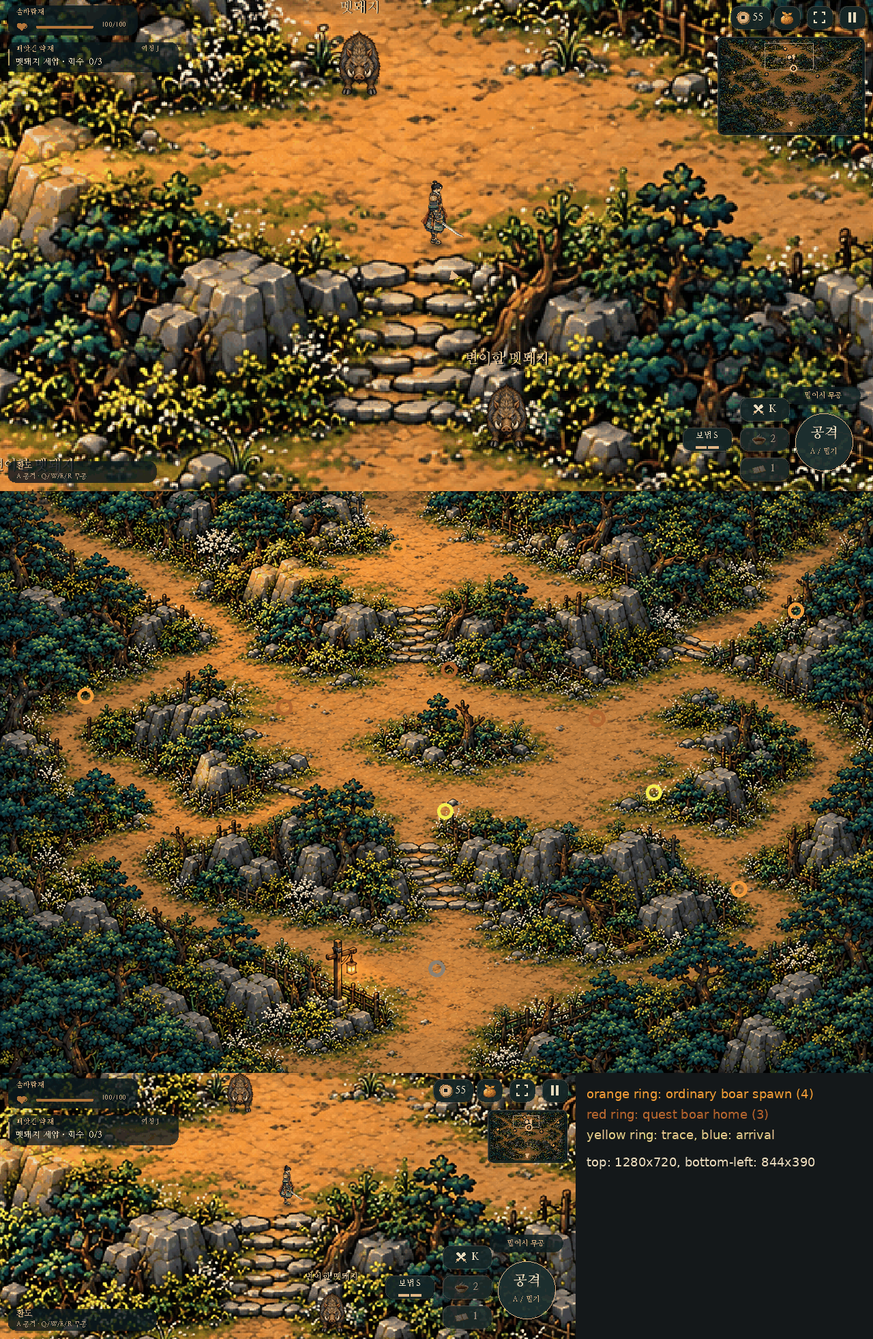
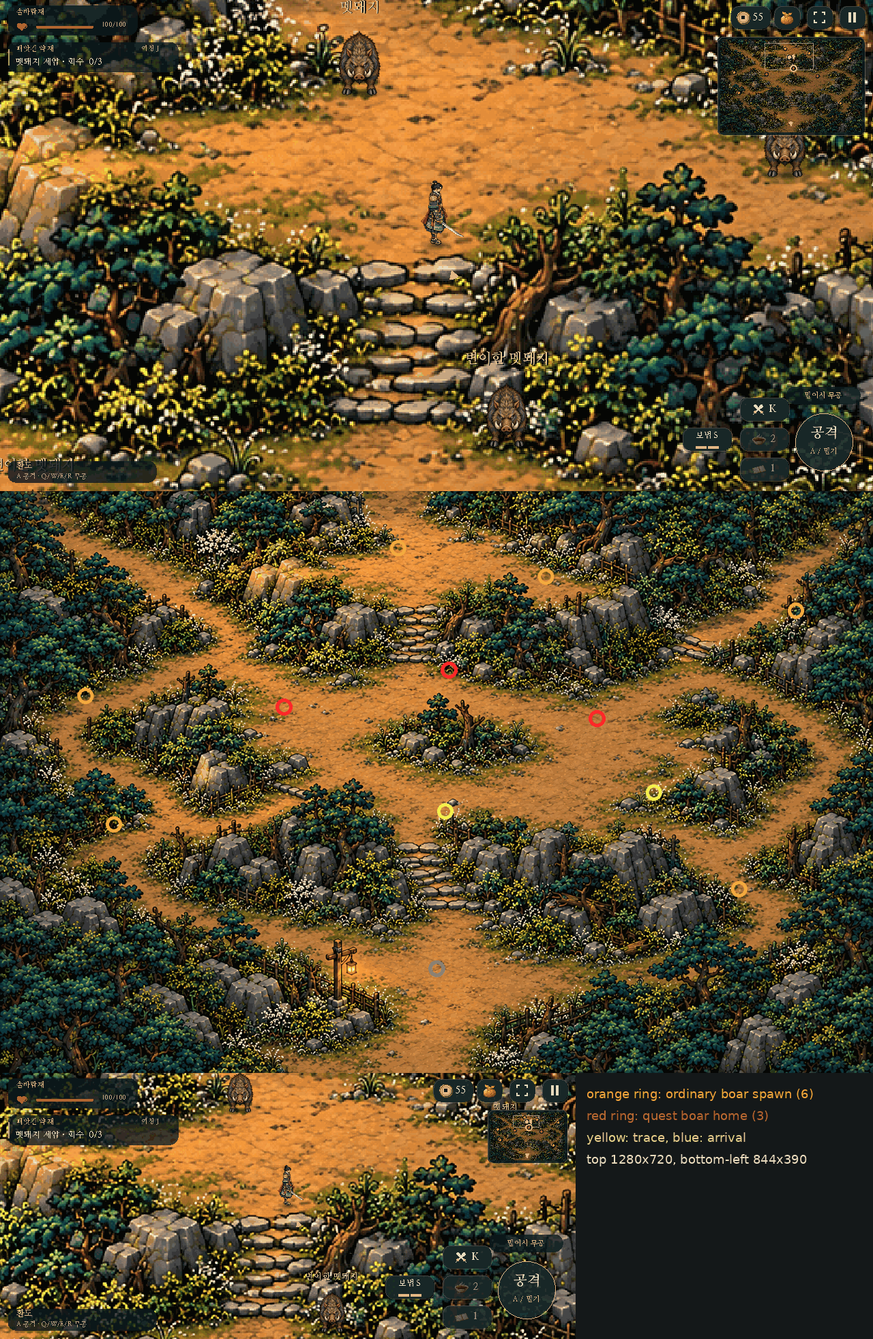
feat: refill ordinary boars to six after 30 seconds on the pass
At the user's request the pass now holds up to six ordinary boars. Each
fallen one returns at its spawn after 30 seconds of play on the pass
(menus, training, other maps and loading do not run the clock), and only
once the hero is 420 away from that spawn. Walking in from the village
still refills the whole round at once.

Two more spawns on painted dirt paths, checked like the first four. Save
v3 (not yet released) now also keeps each boar's remaining respawn time:
276 bytes.

Tests: repeat_hunting 1138 checks; CTest 19/19, ASan+UBSan 19/19.

Claude-Session: https://claude.ai/code/session_01WY6sJ2Yid5rfWZjZWV17HR

Changed region(s): [[0.6562, 0.8079, 0.9375, 0.8701], [0.875, 0.0932, 0.9375, 0.1554], [0.125, 0.5904, 0.1562, 0.6215]]

diff --git a/tests/test_hunt.c b/tests/test_hunt.c
@@ -161,7 +161,7 @@ static void rounds(void) {
     g.hero.pos = g.drops[0].pos; CHECK(game_collect(&g, 0));
     g.hunt[2].pos.x += 30; /* Wandered off. */
     int coins = g.coins; unsigned round = g.hunt_round;
-    /* Same visit: no respawn while staying, pausing or opening menus. */
+    /* Same visit: pausing, menus and a short stay bring nobody back early. */
     const Phase menus[] = {PH_PAUSED, PH_BAG, PH_JOURNAL, PH_TECHNIQUES, PH_DIALOGUE};
     for (unsigned m = 0; m < sizeof menus / sizeof *menus; m++) {
         g.phase = menus[m];
@@ -229,6 +229,80 @@ static void saving(void) {
     for (int i = 0; i < 4; i++) bytes[size - 4 + i] = (unsigned char)(h >> (8 * i));
     Game sentinel = g, out = g;
     CHECK(save_decode(&out, bytes, size) == SAVE_CORRUPT && !memcmp(&out, &sentinel, sizeof out));
+}
+
+static void wait_play(Game *g, float seconds) {
+    for (int n = (int)lroundf(seconds / .05f); n > 0; n--) {
+        g->hero.hp = 100; g->hero.invul = 1;
+        simulation_tick(g, .05f, (Vec2){0});
+    }
+}
+/* While the hero stays on the pass, each fallen ordinary boar returns after
+ * HUNT_RESPAWN_SECONDS of play, never beside the hero, up to HUNT_COUNT. */
+static void timed_respawn(void) {
+    Game g; ready(&g);
+    Vec2 safe = MAP_EXITS[0].arrival;
+    for (int i = 0; i < HUNT_COUNT; i++) CHECK(distance(safe, HUNT_SPAWNS[i]) >= HUNT_RESPAWN_CLEAR);
+    g.hero.pos = g.hunt[0].pos; CHECK(game_damage(&g, &g.hunt[0], 99, FX_HIT));
+    CHECK(g.hunt_respawn[0] == HUNT_RESPAWN_SECONDS);
+    g.hero.pos = safe; int coins = g.coins; unsigned round = g.hunt_round;
+    wait_play(&g, HUNT_RESPAWN_SECONDS - 1);
+    CHECK(g.hunt[0].hp == 0 && g.hunt_respawn[0] > .5f && g.hunt_respawn[0] < 1.5f);
+    /* Menus, training and loading neither run nor reset the clock. */
+    float left = g.hunt_respawn[0];
+    const Phase menus[] = {PH_PAUSED, PH_BAG, PH_JOURNAL, PH_TECHNIQUES, PH_DIALOGUE, PH_SHOP};
+    for (unsigned m = 0; m < sizeof menus / sizeof *menus; m++) {
+        g.phase = menus[m];
+        for (int i = 0; i < 200; i++) game_tick(&g, .05f, (Vec2){0});
+        g.phase = PH_PLAY;
+    }
+    CHECK(g.hunt_respawn[0] == left && g.hunt[0].hp == 0);
+    Game saved; CHECK(game_enter_training(&g, &saved));
+    for (int i = 0; i < 200; i++) simulation_tick(&g, .05f, (Vec2){0});
+    CHECK(game_leave_training(&g, &saved) && g.hunt_respawn[0] == left);
+    g = roundtrip(&g);
+    CHECK(g.hunt[0].hp == 0 && g.hunt_respawn[0] == left && g.hunt_round == round);
+    g.hero.pos = safe;
+    wait_play(&g, 2);
+    CHECK(g.hunt[0].hp == BOAR_HP && g.hunt[0].state == AI_IDLE && g.hunt_respawn[0] == 0);
+    CHECK(distance(g.hunt[0].pos, HUNT_SPAWNS[0]) == 0 && g.coins == coins && g.hunt_round == round);
+    /* Due while the hero stands at its spawn: it waits until they leave. */
+    g.hero.pos = g.hunt[1].pos; CHECK(game_damage(&g, &g.hunt[1], 99, FX_HIT));
+    wait_play(&g, HUNT_RESPAWN_SECONDS + 5);
+    CHECK(g.hunt[1].hp == 0 && g.hunt_respawn[1] == 0);
+    g.hero.pos = safe; wait_play(&g, .05f);
+    CHECK(g.hunt[1].hp == BOAR_HP);
+    /* Hunt the whole pass three times over in one visit: always back to six,
+     * nine coins per kill, no herb or quest change. */
+    for (int cycle = 0; cycle < 3; cycle++) {
+        for (int i = 0; i < HUNT_COUNT; i++) {
+            g.hero.pos = g.hunt[i].pos; CHECK(game_damage(&g, &g.hunt[i], 99, FX_HIT));
+        }
+        CHECK(alive(&g) == 0);
+        g.hero.pos = safe; wait_play(&g, HUNT_RESPAWN_SECONDS / 2);
+        CHECK(alive(&g) == 0);
+        wait_play(&g, HUNT_RESPAWN_SECONDS / 2 + 1);
+        CHECK(alive(&g) == HUNT_COUNT);
+    }
+    CHECK(g.coins == coins + (3 * HUNT_COUNT + 1) * HUNT_REWARD && g.herbs == 0 && g.quest == Q_RECOVER);
+    CHECK(g.hunt_round == round);
+    for (int i = 0; i < BOAR_COUNT; i++) CHECK(!g.drops[i].exists);
+    /* Out of the pass the clock stops; walking back in refills everything. */
+    g.hero.pos = g.hunt[2].pos; CHECK(game_damage(&g, &g.hunt[2], 99, FX_HIT));
+    to_village(&g); left = g.hunt_respawn[2];
+    wait_play(&g, HUNT_RESPAWN_SECONDS * 2);
+    CHECK(g.hunt[2].hp == 0 && g.hunt_respawn[2] == left);
+    to_pass(&g); CHECK(alive(&g) == HUNT_COUNT && g.hunt_respawn[2] == 0);
+    /* Before the traces nothing counts down. */
+    game_reset(&g); game_start(&g); to_pass(&g);
+    g.hunt[3].hp = 0; g.hunt[3].state = AI_DEAD; g.hunt_respawn[3] = 5;
+    wait_play(&g, 10); CHECK(g.hunt[3].hp == 0 && g.hunt_respawn[3] == 5);
+    /* Saves reject an impossible clock. */
+    ready(&g);
+    Game bad = g; bad.hunt_respawn[0] = 1; CHECK(save_encode(&bad, bytes, &size) == SAVE_INVALID);
+    bad = g; bad.hunt[0].hp = 0; bad.hunt_respawn[0] = HUNT_RESPAWN_SECONDS + 1;
+    CHECK(save_encode(&bad, bytes, &size) == SAVE_INVALID);
+    bad.hunt_respawn[0] = NAN; CHECK(save_encode(&bad, bytes, &size) == SAVE_INVALID);
 }
 
 /* A v2 file (before repeat hunting) keeps its progress and starts round 1. */
@@ -323,7 +397,7 @@ static void chapter(void) {
 
 int main(void) {
     spawns(); where_they_appear(); rewards_apart_from_quest(); real_combat();
-    shared_attack_slots(); rounds(); saving(); v2_migration(); death(); chapter();
+    shared_attack_slots(); rounds(); timed_respawn(); saving(); v2_migration(); death(); chapter();
     printf("PASS: %d repeat hunting checks.\n", checks);
     return 0;
 }

diff --git a/src/game.c b/src/game.c
@@ -9,7 +9,7 @@ const Vec2 HOME = P(.30f, .51f), BOSS_HOME = P(.81f, .46f);
 const Vec2 CAVE_HOME = {768 * 1.5f, 440 * 1.5f};
 /* Open dirt paths on the pass, far from the arrival point, the return exit,
  * the quest boars and both traces; tests check clearance and reachability. */
-const Vec2 HUNT_SPAWNS[HUNT_COUNT] = {{225, 540}, {1050, 150}, {2100, 315}, {1950, 1050}};
+const Vec2 HUNT_SPAWNS[HUNT_COUNT] = {{225, 540}, {1050, 150}, {2100, 315}, {1950, 1050}, {300, 880}, {1440, 225}};
 const Npc NPCS[NPC_COUNT] = {{P(.29f, .43f), "마을 이장", "이야기"},
                              {P(.21f, .285f), "대장장이", "대장간"},
                              {P(.355f, .29f), "약방 주인", "약방"},
@@ -96,8 +96,10 @@ static Enemy make_enemy(Vec2 p, int hp) {
 }
 /* Every ordinary boar back at its spawn with full health. */
 static void new_hunt_round(Game *g) {
-    for (int i = 0; i < HUNT_COUNT; i++)
+    for (int i = 0; i < HUNT_COUNT; i++) {
         g->hunt[i] = make_enemy(HUNT_SPAWNS[i], BOAR_HP);
+        g->hunt_respawn[i] = 0;
+    }
     g->hunt_round++;
 }
 static bool is_hunt(const Game *g, const Enemy *e) {
@@ -521,6 +523,7 @@ bool game_damage(Game *g, Enemy *e, int amount, EffectKind kind) {
         } else if (is_hunt(g, e)) {
             /* Paid in the same tick as the kill, so a save always sees both. */
             g->coins += HUNT_REWARD;
+            g->hunt_respawn[e - g->hunt] = HUNT_RESPAWN_SECONDS;
             game_toast(g, "멧돼지 제압 +9문");
         } else {
             for (int i = 0; i < BOAR_COUNT; i++)
@@ -932,6 +935,21 @@ static void tick_boss(Game *g, float dt) {
         break;
     default:
         break;
+    }
+}
+/* Fallen ordinary boars count down only while the hero plays on the pass.
+ * When due, one returns at its spawn with full health, but only out of the
+ * hero's sight; otherwise it waits at zero until the hero moves away. */
+static void tick_hunt_respawn(Game *g, float dt) {
+    if (!game_hunt_active(g) || g->phase != PH_PLAY || dt <= 0) return;
+    for (int i = 0; i < HUNT_COUNT; i++) {
+        Enemy *e = &g->hunt[i];
+        if (e->hp > 0) continue;
+        g->hunt_respawn[i] = fmaxf(0, g->hunt_respawn[i] - dt);
+        if (g->hunt_respawn[i] > 0 || e->dying > 0 || distance(g->hero.pos, HUNT_SPAWNS[i]) < HUNT_RESPAWN_CLEAR)
+            continue;
+        *e = make_enemy(HUNT_SPAWNS[i], BOAR_HP);
+        effect(g, (Effect){.kind = FX_DUST, .pos = e->pos, .life = .55f, .amount = 3});
     }
 }
 /* Follow only an unobstructed segment. Menus pause this with the rest of the world. */
@@ -1492,6 +1510,7 @@ void game_tick(Game *g, float dt, Vec2 input) {
             for (int i = 0; i < HUNT_COUNT && g->phase == PH_PLAY; i++)
                 if (g->hunt[i].hp > 0)
                     tick_boar(g, &g->hunt[i], world_dt);
+        tick_hunt_respawn(g, dt);
     }
     separate_bodies(g, dt);
     tick_loot(g, dt);

diff --git a/src/save.c b/src/save.c
@@ -56,7 +56,9 @@ static bool valid(const Game *g) {
     /* Ordinary boars: hp 0 means killed and already paid. */
     if (g->hunt_round < 1) return false;
     for (int i = 0; i < HUNT_COUNT; i++)
-        if (g->hunt[i].hp < 0 || g->hunt[i].hp > BOAR_HP) return false;
+        if (g->hunt[i].hp < 0 || g->hunt[i].hp > BOAR_HP ||
+            !bounded(g->hunt_respawn[i], HUNT_RESPAWN_SECONDS) ||
+            (g->hunt[i].hp > 0 && g->hunt_respawn[i] != 0)) return false;
     if (g->herbs != (g->supplies_delivered ? 0 : collected) ||
         (g->supplies_delivered && collected != 3) ||
         (g->quest == Q_MEET && (g->traces[0] || g->traces[1])) ||
@@ -100,7 +102,7 @@ SaveResult save_encode(const Game *g, unsigned char *b, size_t *size) {
     }
     I(g->dodge_charges); F(g->dodge_recharge);
     I(g->hunt_round);
-    for (int i = 0; i < HUNT_COUNT; i++) I(g->hunt[i].hp);
+    for (int i = 0; i < HUNT_COUNT; i++) { I(g->hunt[i].hp); F(g->hunt_respawn[i]); }
     size_t p = 8; put(b, &p, (uint32_t)(n + 4));
     uint32_t sum = checksum(b, n); I(sum);
 #undef I
@@ -156,7 +158,7 @@ SaveResult save_decode(Game *out, const unsigned char *b, size_t size) {
     if (version >= 3) {
         g.hunt_round = get(b, &n);
         for (int i = 0; i < HUNT_COUNT; i++) {
-            I(g.hunt[i].hp);
+            I(g.hunt[i].hp); F(g.hunt_respawn[i]);
             g.hunt[i].state = g.hunt[i].hp == 0 ? AI_DEAD : AI_IDLE;
         }
     }

diff --git a/src/game.h b/src/game.h
@@ -9,8 +9,12 @@
 /* Repeat hunting: ordinary boars on the pass, apart from the three quest
  * boars. They share the boar's art, AI and numbers, pay coins once per kill
  * and never drop herbs. A fresh round fills them when the hero walks in
- * from the village. */
-#define HUNT_COUNT 4
+ * from the village; while the hero stays, each fallen one comes back at its
+ * spawn after HUNT_RESPAWN_SECONDS of play on the pass, once the hero is at
+ * least HUNT_RESPAWN_CLEAR away so it never appears beside them. */
+#define HUNT_COUNT 6
+#define HUNT_RESPAWN_SECONDS 30.0f
+#define HUNT_RESPAWN_CLEAR 420.0f
 #define BOAR_HP 38
 #define HUNT_REWARD 9
 #define NPC_COUNT 5
@@ -243,6 +247,8 @@ typedef struct {
     /* Ordinary boars of the current hunting round; hp 0 = killed and paid. */
     Enemy hunt[HUNT_COUNT];
     unsigned hunt_round;
+    /* Seconds of play on the pass left before each fallen boar returns. */
+    float hunt_respawn[HUNT_COUNT];
     Drop drops[BOAR_COUNT];
     bool traces[TRACE_COUNT], sword, armor, supplies_delivered, boss_rewarded, replay;
     bool owned_sword, owned_armor;

diff --git a/tests/test_save.c b/tests/test_save.c
@@ -128,7 +128,7 @@ static void combat_state_and_v1(void) {
     CHECK(save_encode(&g, bytes, &size) == SAVE_INVALID);
     g.dodge_recharge = .7f; CHECK(save_encode(&g, bytes, &size) == SAVE_OK);
     /* Exact old v1 layout: delete the two appended fields, then re-sign it. */
-    size = 216; bytes[4] = 1; bytes[8] = 216; sum_again();
+    size = 216; bytes[4] = 1; bytes[8] = 216; bytes[9] = 0; sum_again();
     CHECK(save_decode(&loaded, bytes, size) == SAVE_OK);
     CHECK(loaded.quest == g.quest && loaded.coins == g.coins && loaded.hero.hp == g.hero.hp);
     CHECK(loaded.dodge_charges == DODGE_CHARGES && loaded.dodge_recharge == 0);

diff --git a/src/save.h b/src/save.h
@@ -4,8 +4,9 @@
 #include <stdint.h>
 
 #define SAVE_VERSION 3u
-/* v3 = v2 (224 bytes) + hunting round + one health per ordinary boar. */
-#define SAVE_V3_SIZE (224u + 4u + 4u * HUNT_COUNT)
+/* v3 = v2 (224 bytes) + hunting round + health and respawn time left for
+ * each ordinary boar. */
+#define SAVE_V3_SIZE (224u + 4u + 8u * HUNT_COUNT)
 #define SAVE_CAPACITY 512
 typedef enum {
     SAVE_OK, SAVE_MISSING, SAVE_CORRUPT, SAVE_VERSION_NEW,

diff --git a/docs/REPEAT_HUNTING.md b/docs/REPEAT_HUNTING.md
@@ -1,6 +1,6 @@
 # 반복 사냥 기반 1차 — 2026-11-04
 
-솔바람재에 의뢰와 별개인 **일반 멧돼지 4마리**를 두고, 마을에서 다시 들어올 때마다 새 사냥 회차로 채운다.
+솔바람재에 의뢰와 별개인 **일반 멧돼지 최대 6마리**를 둔다. 쓰러진 멧돼지는 솔바람재에서 **30초** 플레이하면 제자리에 다시 생겨 6마리를 채운다. 마을에서 다시 들어오면 새 사냥 회차로 한꺼번에 채운다.
 기준 main `fa2647d`(자동저장 PR #51 병합 직후). 게임 버전 0.8.0 그대로, 저장 형식만 v2 → v3.
 
 ## 출현
@@ -9,19 +9,26 @@
 |---|---|
 | 위치 | 솔바람재(`MAP_PASS`)만. 마을·탐식굴·수련장(허수아비 수련과 옛 단일 지형 회귀 검사 포함)에는 없다. |
 | 시점 | 흔적 두 곳 조사를 마친 뒤부터. 의뢰용 멧돼지와 같은 시점이며 사용자가 2026-11-03 선택했다. 1장 완료 뒤에도 계속 나온다. |
-| 개수·지점 | 4마리, 그림 속 흙길의 고정 지점 `HUNT_SPAWNS`: (225,540) 서쪽, (1050,150) 북쪽, (2100,315) 북동쪽, (1950,1050) 남동쪽(월드 좌표) |
+| 개수·지점 | 최대 6마리, 그림 속 흙길의 고정 지점 `HUNT_SPAWNS`: (225,540) 서쪽, (1050,150) 북쪽, (2100,315) 북동쪽, (1950,1050) 남동쪽, (300,880) 남서쪽, (1440,225) 북쪽 오른편(월드 좌표). 2026-11-04 사용자 요청으로 4 → 6 |
 | 겹침 방지 | 지점마다 장애물 여유 반경 40 이상, 도착 지점에서 길찾기로 도달 가능, 도착 지점·귀환 출구에서 330 이상(멧돼지 발견 거리 180), 의뢰 멧돼지 집·흔적·서로에게서 300 이상. 입장 순간 주인공은 항상 도착 지점에 있다. `repeat_hunting` 검사가 확인한다. |
 | 구분 | 원화·AI·돌진·수치는 기존 멧돼지 그대로. 머리 위 이름은 `멧돼지`(의뢰용은 `변이한 멧돼지`), 미니맵 점은 주황(의뢰용은 빨강). |
 | 전투 | 대상 자동 선택, 평타·무공 판정, 몸 충돌, 넉백, 피격·처치 연출, 화면 흔들림·보간에 연결. 동시 공격 제한 2마리는 의뢰용과 합쳐서 센다. |
 
+## 재생성(2026-11-04 사용자 요청)
+
+- 일반 멧돼지가 쓰러지면 그 자리의 재생성 시계가 `HUNT_RESPAWN_SECONDS` **30초**로 시작한다. 같은 지점에는 한 마리만 있으므로 최대 6마리를 넘지 않는다.
+- 시계는 흔적 조사를 마친 뒤 솔바람재에서 실제로 플레이할 때만 줄어든다. 일시정지·메뉴·대화·상점, 마을·탐식굴에 있는 동안, 허수아비 수련 중에는 멈춘다. 불러오기는 남은 시간을 그대로 이어 간다. 오프라인으로 흐르지 않는다.
+- 시간이 다 되면 출현 지점에서 최대 체력으로 다시 생기고 흙먼지가 인다. 주인공이 그 지점에서 `HUNT_RESPAWN_CLEAR` **420** 안에 있으면 눈앞에 갑자기 나타나지 않도록 주인공이 멀어질 때까지 기다린다. 도착 지점은 모든 출현 지점에서 420 이상 떨어져 있다.
+- 다시 생긴 멧돼지도 처치마다 9문만 지급한다. 30초·420은 손맛을 본 뒤 조정할 수 있는 값이다.
+
 ## 회차
 
-- 새 회차는 **마을 → 솔바람재 이동** 때만 시작한다. 4마리 모두 출현 지점에서 최대 체력으로 다시 놓이고 회차 번호가 1 오른다.
-- 같은 방문 중에는 처치한 적이 다시 나오지 않는다. 일시정지·가방·여정·무공 배치·대화, 허수아비 수련장 왕복, 저장 불러오기는 회차를 바꾸지 않는다.
+- 새 회차는 **마을 → 솔바람재 이동** 때만 시작한다. 6마리 모두 출현 지점에서 최대 체력으로 다시 놓이고, 재생성 시계가 지워지며, 회차 번호가 1 오른다.
+- 같은 방문 중에는 위 재생성 규칙으로만 다시 나온다. 일시정지·가방·여정·무공 배치·대화, 허수아비 수련장 왕복, 저장 불러오기는 회차를 바꾸지 않고 시계도 되돌리지 않는다.
 - 사망하면 기존 규칙대로 마을에서 회복한다. 처치·엽전은 유지되고 살아 있던 일반 적은 제자리·최대 체력으로 돌아간다. 다시 솔바람재에 들어가면 일반 입장과 같이 새 회차다. 백정 재도전은 탐식굴에서 일어나므로 일반 적과 무관하다.
 - 의뢰용 멧돼지 3마리의 처치·약재·조사·전달·보고·보상 기록은 회차와 무관하게 유지된다.
 
-시간제 재생성·무한 웨이브·오프라인 사냥은 후속 작업이다.
+무한 웨이브·오프라인 사냥·적 종류 추가는 후속 작업이다.
 
 ## 보상
 
@@ -31,27 +38,27 @@
 
 ## 저장과 복원
 
-- v3에 회차 번호와 4마리의 체력을 저장한다. 체력 0은 "처치와 지급이 끝남"을 뜻하므로 재화와 적 상태가 따로 기록되지 않는다. 자동저장(최대 1초 간격)은 같은 틱의 두 값을 함께 쓴다.
-- 불러오면 살아 있는 일반 적은 출현 지점에서 남은 체력으로 대기하고, 처치된 적은 처치 상태로 남는다. 불러오기를 몇 번 반복해도 적·엽전이 다시 생기지 않는다.
-- v1·v2 저장은 다른 진행을 모두 유지하고 일반 적을 1회차·4마리 생존으로 이행한다.
+- v3에 회차 번호와 6마리의 체력·남은 재생성 시간을 저장한다. 체력 0은 "처치와 지급이 끝남"을 뜻하므로 재화와 적 상태가 따로 기록되지 않는다. 자동저장(최대 1초 간격)은 같은 틱의 두 값을 함께 쓴다.
+- 불러오면 살아 있는 일반 적은 출현 지점에서 남은 체력으로 대기하고, 처치된 적은 남은 재생성 시간과 함께 처치 상태로 남는다. 불러오기를 몇 번 반복해도 적·엽전이 다시 생기지 않는다.
+- v1·v2 저장은 다른 진행을 모두 유지하고 일반 적을 1회차·6마리 생존으로 이행한다.
 - 수련장 중에는 기존대로 저장을 거부하므로 수련 상태가 본편 저장을 덮어쓰지 않는다.
 - 형식 세부는 [저장 정책](SAVE_SYSTEM.md).
 
 ## 변경 파일
 
-- `src/game.h`, `src/game.c`: `HUNT_COUNT`, `HUNT_SPAWNS`, `Game.hunt[]`, `hunt_round`, `game_hunt_active`, 이동 시 새 회차, 대상 선택·충돌·피해·넉백·공격 슬롯·보상·사망 처리.
+- `src/game.h`, `src/game.c`: `HUNT_COUNT`, `HUNT_SPAWNS`, `Game.hunt[]`, `hunt_round`, `hunt_respawn[]`, `game_hunt_active`, 이동 시 새 회차, 30초 재생성, 대상 선택·충돌·피해·넉백·공격 슬롯·보상·사망 처리.
 - `src/draw.c`: 일반 적 그리기·이름·경고 띠·미니맵 점.
 - `src/main.c`: 화면 보간·흔들림에 일반 적 포함, 확인용 `--scene hunt`.
 - `src/save.c`, `src/save.h`: 형식 v3, v1·v2 이행, 범위 검사.
-- `tests/test_hunt.c`(새 `repeat_hunting`), `tests/test_save.c`·`tests/browser_save.cjs`(기록 길이·버전 단정 224/v2 → 244/v3), `tests/test_controls.c`(흔들림 배열 크기), `CMakeLists.txt`.
+- `tests/test_hunt.c`(새 `repeat_hunting`), `tests/test_save.c`·`tests/browser_save.cjs`(기록 길이·버전 단정 224/v2 → 276/v3, v1 변환 시 길이 상위 바이트 정리), `tests/test_controls.c`(흔들림 배열 크기), `CMakeLists.txt`.
 
 ## 검증
 
 [로그](hunt-validation.txt), [실제 SDL 화면과 출현 지점](repeat-hunt-review.png).
 
-- Linux / GCC / SDL 2.30.0 Debug 전체 CTest **19/19 통과**. 새 `repeat_hunting` **994조건**, 저장 1,224, 맵 이동 7,033, 게임 746, 전투 859, 수련 1,578, 입력 971, UI 6,531 등 기존 검사 포함.
+- Linux / GCC / SDL 2.30.0 Debug 전체 CTest **19/19 통과**. 새 `repeat_hunting` **1,138조건**(재생성 시계·메뉴/수련/불러오기 중 정지·주인공 근처 대기·한 방문 3번 전멸 후 재충원 포함), 저장 1,352, 맵 이동 7,033, 게임 746, 전투 859, 수련 1,578, 입력 971, UI 6,531 등 기존 검사 포함.
 - 같은 소스를 ASan+UBSan으로 빌드한 전체 CTest **19/19 통과**.
-- 일부러 회차 갱신을 빼거나 공격 슬롯 합산을 빼면 새 검사가 실패하는 것을 확인한 뒤 원래대로 돌렸다.
+- 일부러 회차 갱신, 공격 슬롯 합산, 재생성 거리 조건을 각각 빼면 새 검사가 실패하는 것을 확인한 뒤 원래대로 돌렸다.
 - 실제 실행 파일 `--smoke --scene hunt`를 844×390·1280×720로 출력해, `멧돼지`/`변이한 멧돼지` 이름과 미니맵 주황/빨강 점을 눈으로 확인했다. 첫 지점 후보 일부가 충돌상으로는 비어 있어도 그림상 수풀 위였으므로, 그림의 흙길 위로 옮기고 검사를 다시 통과했다.
 
 미검증: 로컬 Emscripten 웹 빌드와 실제 Chromium 저장 회귀(`tests/browser_save.cjs`)는 이 환경에서 SDL 웹 포트 내려받기가 막혀 실행하지 못했다. 웹 빌드 성공은 PR CI로 확인한다. 실제 사용자 PC 창 조작, iPhone/Android 터치, 장시간 사냥 체감·난이도는 미검증이다.

diff --git a/CURRENT_STATE.md b/CURRENT_STATE.md
@@ -10,11 +10,11 @@
 
 ## 2026-11-04 · 반복 사냥 기반 1차 · PR 검토 대기
 - 사용자가 ChatGPT 지시문의 수정본과 구현 계획을 승인했다("진행"). 일반 멧돼지 출현 시점은 사용자가 "흔적 조사 완료 후부터"로 골랐다. 기준 main `fa2647d`, 브랜치 `claude/project-thread-p4sa3u`. 정책 전체는 [반복 사냥 정책](docs/REPEAT_HUNTING.md).
-- 솔바람재에 의뢰와 별개인 일반 멧돼지 4마리(`Game.hunt[]`, 고정 지점 `HUNT_SPAWNS`). 흔적 두 곳 조사 후부터 나오고, 마을 → 솔바람재 이동 때만 새 회차(`hunt_round`)로 다시 채운다. 처치당 9문, 약재·의뢰 진행 없음. 기존 멧돼지 원화·AI·돌진·수치 재사용, 동시 공격 2마리 제한은 의뢰용과 합산. 이름 `멧돼지`/미니맵 주황으로 의뢰용(`변이한 멧돼지`/빨강)과 구분.
-- 저장 형식 v3(244바이트): 회차 번호 + 일반 적 4마리 체력. v1·v2는 진행 유지 + 1회차·전원 생존으로 이행. 불러오기·수련장·메뉴는 회차를 바꾸지 않는다. 사망 회복 후 재입장은 새 회차.
-- 테스트: 새 `repeat_hunting` 994조건(출현 지점, 지역별 활성, 보상 1회, 대상 선택·충돌, 공격 슬롯 합산, 회차, v3 왕복·이행·범위 오류, 사망·재도전, 사냥을 섞은 1장 전체와 단계별 저장). Linux/SDL 2.30.0 전체 CTest **19/19**, ASan+UBSan **19/19**. 실제 실행 파일 `--scene hunt` 844×390·1280×720 확인. [로그](docs/hunt-validation.txt), [화면](docs/repeat-hunt-review.png).
+- 솔바람재에 의뢰와 별개인 일반 멧돼지 최대 6마리(`Game.hunt[]`, 고정 지점 `HUNT_SPAWNS`). 흔적 두 곳 조사 후부터 나온다. 쓰러지면 솔바람재에서 30초 플레이 뒤 제자리에 다시 생긴다(주인공이 420 안이면 멀어질 때까지 대기, 메뉴·수련·다른 지역에서는 시계 정지). 마을 → 솔바람재 이동 때는 새 회차(`hunt_round`)로 한꺼번에 채운다. 최대 6마리·시간제 재생성은 PR 생성 뒤 사용자 추가 요청(원래 4마리·회차 재등장만). 처치당 9문, 약재·의뢰 진행 없음. 기존 멧돼지 원화·AI·돌진·수치 재사용, 동시 공격 2마리 제한은 의뢰용과 합산. 이름 `멧돼지`/미니맵 주황으로 의뢰용(`변이한 멧돼지`/빨강)과 구분.
+- 저장 형식 v3(276바이트): 회차 번호 + 일반 적 6마리의 체력·남은 재생성 시간. v1·v2는 진행 유지 + 1회차·전원 생존으로 이행. 불러오기·수련장·메뉴는 회차와 시계를 바꾸지 않는다. 사망 회복 후 재입장은 새 회차.
+- 테스트: 새 `repeat_hunting` 1,138조건(출현 지점, 30초 재생성과 정지 조건, 지역별 활성, 보상 1회, 대상 선택·충돌, 공격 슬롯 합산, 회차, v3 왕복·이행·범위 오류, 사망·재도전, 사냥을 섞은 1장 전체와 단계별 저장). Linux/SDL 2.30.0 전체 CTest **19/19**, ASan+UBSan **19/19**. 실제 실행 파일 `--scene hunt` 844×390·1280×720 확인. [로그](docs/hunt-validation.txt), [화면](docs/repeat-hunt-review.png).
 - 미검증: 로컬 웹 빌드·실제 Chromium 저장 회귀(SDL 웹 포트 내려받기 차단, CI의 웹 빌드로 확인), 사용자 PC 창·휴대폰, 사냥 체감·난이도. `GAME_BIBLE.md` 없음. 병합·배포·버전 변경은 별도 승인 대기.
-- 다음 후보(승인 후): 시간제 재생성·추가 적 종류·사냥 재료 등 후속 독립 작업.
+- 다음 후보(승인 후): 재생성 시간·개수 손맛 조정, 추가 적 종류·사냥 재료 등 후속 독립 작업.
 
 ## 2026-11-03 · 자동저장·이어하기 · 사용자 병합·자동 Pages 배포 승인
 

diff --git a/docs/MAP_INTEGRATION.md b/docs/MAP_INTEGRATION.md
@@ -13,7 +13,7 @@
 
 길목 이정표 근처에서 **기존 상호작용 버튼 또는 Space**를 사용한다. 바깥 경계에 닿는 자동 전환을 추가하지 않아, 이동키를 누른 채 연속 왕복하지 않는다. NPC 대화·상점·입력·공격/네 무공 수치와 타이밍·줌·가로 모드 규칙은 보존한다.
 
-일반 의뢰용 멧돼지는 기존처럼 흔적 두 곳 조사 후 활성화된다. 입장할 때마다 새 적·약재·보상을 생성하지 않는다. 2026-11-04 후속: 반복 사냥용 일반 멧돼지 4마리와 회차 재등장을 추가했다. [반복 사냥 정책](REPEAT_HUNTING.md).
+일반 의뢰용 멧돼지는 기존처럼 흔적 두 곳 조사 후 활성화된다. 입장할 때마다 새 적·약재·보상을 생성하지 않는다. 2026-11-04 후속: 반복 사냥용 일반 멧돼지 최대 6마리, 30초 재생성과 회차 재등장을 추가했다. [반복 사냥 정책](REPEAT_HUNTING.md).
 
 ## 전환과 보존
 

diff --git a/docs/VALIDATION.md b/docs/VALIDATION.md
@@ -1,6 +1,6 @@
 ## 2026-11-04 · 반복 사냥 기반 1차
 
-Linux / GCC / SDL 2.30.0 전체 CTest **19/19**(새 `repeat_hunting` 994조건 포함), ASan+UBSan **19/19**,
+Linux / GCC / SDL 2.30.0 전체 CTest **19/19**(새 `repeat_hunting` 1,138조건 포함), ASan+UBSan **19/19**,
 실제 실행 파일 `--scene hunt` 844×390·1280×720 출력. 로컬 웹 빌드·Chromium 저장 회귀는 미실행(SDL 웹 포트 내려받기 차단).
 [반복 사냥 정책·검증](REPEAT_HUNTING.md), [로그](hunt-validation.txt).
 
